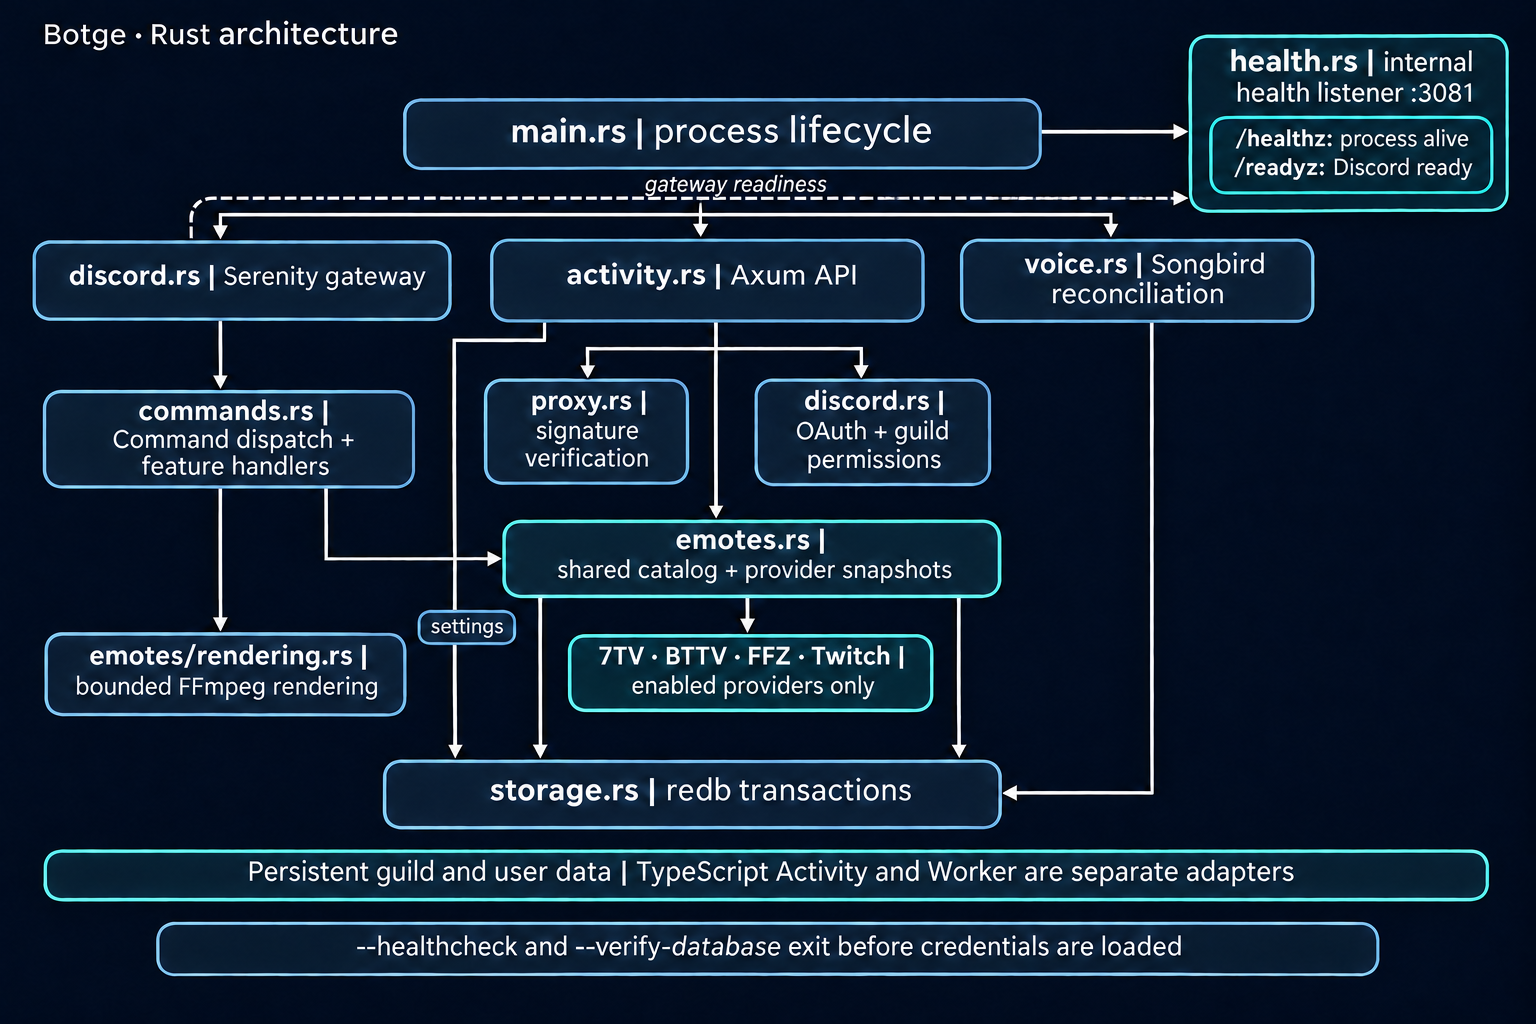
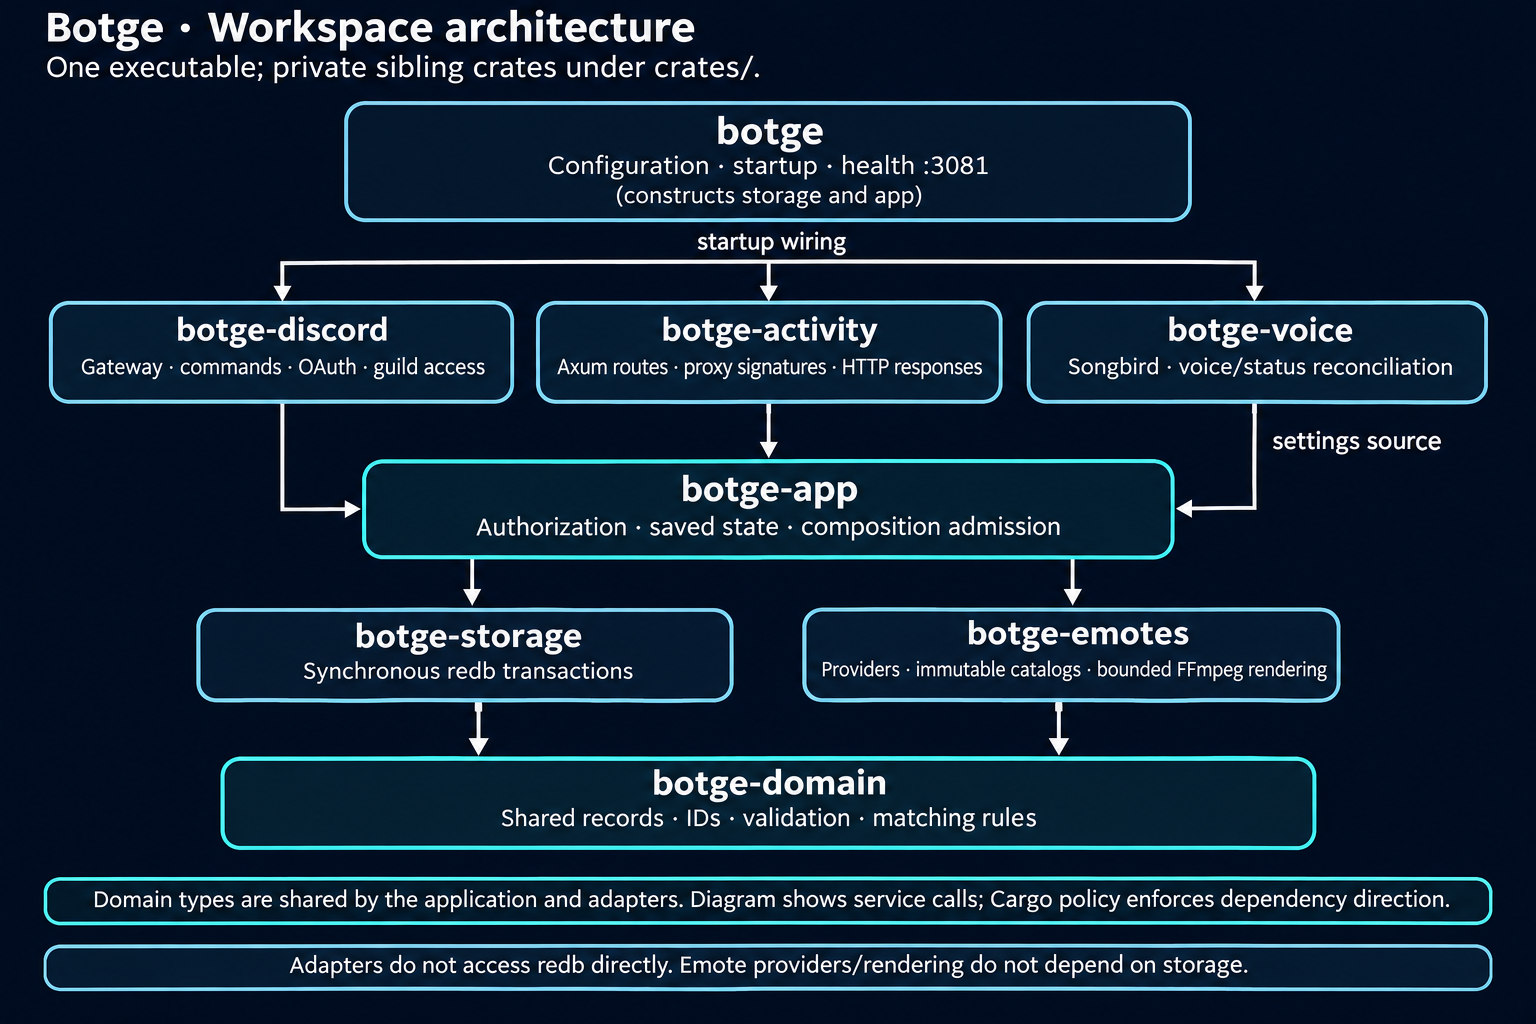
docs(architecture): align diagrams with the Rust workspace

Changed region(s): [[0.0, 0.0, 1.0, 0.9688], [0.0, 0.4062, 0.0312, 0.4375]]

diff --git a/docs/ARCHITECTURE.md b/docs/ARCHITECTURE.md
@@ -1,18 +1,24 @@
 # Rust bot architecture
 
-The production image builds one [Rust binary](../Cargo.toml). Discord commands and the Activity API
-share the same emote catalog. The [Activity and Worker](../activity/README.md) are TypeScript.
+The production image builds one [Rust binary](../crates/botge/Cargo.toml). Discord commands and the
+Activity API share the same emote catalog. The [Activity and Worker](../activity/README.md) are
+TypeScript.
 
 ## Diagram exports
 
-The PNG diagrams describe the current Rust implementation:
+The PNG diagrams describe the current workspace and service flows. The revised architecture,
+request-flow and development-workflow diagrams have editable Mermaid counterparts in
+[`diagrams/`](diagrams/). The workspace guide defines the complete dependency policy:
 
-- [Bot modules](architecture.png): adapters, shared services, rendering, and persistence.
-- [Request and data flow](request-flow.png): Discord commands and authenticated Activity requests.
+- [Workspace architecture](architecture.png) ([Mermaid](diagrams/architecture.mmd)): adapters,
+  application operations, domain records, providers, and persistence.
+- [Request and data flow](request-flow.png) ([Mermaid](diagrams/request-flow.mmd)): Discord
+  compositions and authenticated Activity voice settings.
 - [Deployment topology](deployment.png): Compose services, persistent data, and the optional API
   tunnel.
-- [Development and release workflow](development-workflow.png): local hooks, PR validation, and
-  approved deployment.
+- [Development and release workflow](development-workflow.png)
+  ([Mermaid](diagrams/development-workflow.mmd)): local hooks, language checks, and approved
+  deployment.
 - [Startup and shutdown](startup.png): initialization, optional services, and gateway readiness.
 - [Discord interactions](discord-interactions.png): extensible command, autocomplete, modal, and
   message handling.
@@ -33,60 +39,53 @@ flowchart TD
     Discord --> Health
     Discord --> Ready["Gateway ready"]
     Ready --> Voice["Reconcile saved voice settings with Songbird"]
-    Store --> Voice
-    API --> Store
+    App["Application operations"] --> Store
+    Voice --> App
+    API --> App
     Discord --> Commands["Handle Discord commands"]
-    Commands --> Catalog["Resolve emotes"]
-    Commands --> Renderer["Render images with FFmpeg"]
-    API --> Catalog
-    Catalog --> Store
+    Commands --> App
+    App --> Catalog["Resolve emotes"]
+    App --> Renderer["Render images with FFmpeg"]
     Catalog --> Providers["Provider feeds and 7TV events"]
     Renderer --> Cache["Provider image cache"]
 ```
 
-The root Cargo manifest builds one executable from [`src/`](../src/). The startup module wires the
-dependencies together. The Activity routes validate input and translate failures into HTTP
-responses. The Discord adapter exchanges OAuth codes and checks permissions. Storage owns redb
-transactions, and the voice worker applies settings to Discord.
+The root Cargo manifest is a virtual workspace. The executable lives in
+[`crates/botge/`](../crates/botge/), alongside the private libraries in [`crates/`](../crates/). The
+startup module wires the dependencies together. The Activity routes validate input and translate
+failures into HTTP responses. The Discord adapter exchanges OAuth codes and checks permissions.
+Storage owns redb transactions, and the voice worker applies settings to Discord.
 
 The larger services separate their internal responsibilities into child modules:
 
-- [`commands.rs`](../src/commands.rs) dispatches to [`commands/`](../src/commands/): composition,
-  message prefixes, autocomplete, shortcuts, registration, and cleanup.
-- [`activity.rs`](../src/activity.rs) shares authentication and state across the voice, catalog, and
-  personal border routes in [`activity/`](../src/activity/).
-- [`providers.rs`](../src/emotes/providers.rs) keeps networking and snapshots separate from
-  [`normalization.rs`](../src/emotes/providers/normalization.rs) and
-  [`events.rs`](../src/emotes/providers/events.rs).
-- [`rendering.rs`](../src/emotes/rendering.rs) coordinates downloads and encoding; its
-  [`child modules`](../src/emotes/rendering/) own layout planning, media probing, and WebP timing.
+- [`commands.rs`](../crates/botge-discord/src/commands.rs) dispatches to
+  [`commands/`](../crates/botge-discord/src/commands/): composition, message prefixes, autocomplete,
+  shortcuts, registration, and cleanup.
+- [`activity.rs`](../crates/botge-activity/src/activity.rs) shares authentication and state across
+  the voice, catalog, and personal border routes in
+  [`activity/`](../crates/botge-activity/src/activity/).
+- [`providers.rs`](../crates/botge-emotes/src/emotes/providers.rs) keeps networking and snapshots
+  separate from [`normalization.rs`](../crates/botge-emotes/src/emotes/providers/normalization.rs)
+  and [`events.rs`](../crates/botge-emotes/src/emotes/providers/events.rs).
+- [`rendering.rs`](../crates/botge-emotes/src/emotes/rendering.rs) coordinates downloads and
+  encoding; its [`child modules`](../crates/botge-emotes/src/emotes/rendering/) own layout planning,
+  media probing, and WebP timing.
 
 Feature tests live in each child module's `tests.rs`. Parent test modules retain shared fixtures and
 scenarios that exercise dispatch, authentication, networking, or the complete render pipeline.
 
-### Crate separation assessment
+### Workspace boundaries
 
-The current boundary review retains one executable crate. The emote service imports `Store`, while
-storage imports `Emote` and `GuildEmotes`; extracting either module directly would create a crate
-dependency cycle. A shared domain crate would need to own those records, provider identity and
-validation first. Existing private test fixtures also cross these module boundaries.
+The [workspace guide](../crates/README.md) defines the private crate responsibilities and allowed
+production dependencies. Domain records and pure rules sit below storage and provider services.
+Application operations authorize and coordinate those services; Discord and Activity translate
+transport requests without owning database access. Authorization calls the application's injected
+`GuildAccess` capability, implemented by `botge-discord`. Voice consumes an application
+settings-source capability. The executable wires concrete services together.
 
-- **Emote domain and catalog:** shared types could break the storage/service cycle and isolate pure
-  tests. Separate records, validation and catalog mapping from provider/storage orchestration first.
-- **Storage:** independent persistence tests could avoid Discord/audio dependencies. Extraction
-  needs the domain types and must retain redb transaction and blocking execution contracts.
-- **Rendering:** isolate FFmpeg orchestration from adapters after separating domain records, CDN
-  policy and bounded downloads. Preserve admission limits.
-- **WebP parsing and timing:** a small, mostly independent pure-Rust surface. Move shared timing
-  policy with it; establish independent use or build savings before adding a crate.
-
-Microsoft's smaller-crates guidance applies to these candidates; one binary alone does not make it
-inapplicable. Extraction is deferred until an independent consumer or measured build bottleneck
-justifies the boundary changes. Compare cold dependency builds, warm application builds, and
-rebuilds after adapter-only and domain-only edits using Cargo timings. A smaller crate can reduce
-recompilation of unchanged code; it does not remove Serenity, Songbird, or native dependencies from
-a full bot build. Any split must also update Docker's dependency layer, workspace lint inheritance,
-coverage, Miri, feature checks and unused-dependency checks together.
+The dependency-policy integration test guards these edges and keeps fixture features out of
+production declarations. Cargo rejects cycles. Shared metadata and lint policy live in the root
+manifest; validation, coverage and build inputs include every workspace crate.
 
 The internal health listener is independent of the Activity API. It exposes process liveness at
 `/healthz` and gateway readiness at `/readyz`. Ready/Resumed enables readiness; reconnect stages
@@ -100,10 +99,11 @@ reads an offline redb backup without loading Discord credentials. See
 sequenceDiagram
     participant Browser as Activity
     participant Proxy as Discord proxy
-    participant API as Axum
-    participant Discord
-    participant DB as redb
-    participant Voice as Voice worker
+    participant API as botge-activity
+    participant App as botge-app
+    participant Discord as botge-discord / Discord
+    participant DB as botge-storage
+    participant Voice as botge-voice
     opt No usable access token
         Browser->>Proxy: Send OAuth code to /auth
         Proxy->>API: Forward signed exchange request
@@ -115,14 +115,22 @@ sequenceDiagram
     end
     Browser->>Proxy: Send voice settings and bearer token
     Proxy->>API: Forward signed request through the API tunnel
-    API->>API: Verify Discord proxy signature
-    API->>Discord: Identify token holder and check current guild permissions
+    API->>API: Verify proxy signature and decode request
+    API->>App: Save voice settings
+    App->>Discord: Identify token holder and check current guild/channel permissions
     alt Authorized guild administrator
-        API->>DB: Commit guild voice settings
-        API-->>Voice: Notify after a successful save
-        API-->>Proxy: Return saved settings
-        Voice->>Discord: Join, move, or disconnect
+        App->>DB: Commit guild voice settings on blocking worker
+        DB-->>App: Committed settings
+        App-->>Voice: Notify after successful commit
+        App-->>API: Return saved settings
+        API-->>Proxy: Return HTTP response
+        Voice->>App: Load saved settings through settings source
+        App->>DB: Read saved voice settings
+        DB-->>App: Settings snapshot
+        App-->>Voice: Saved settings
+        Voice->>Discord: Reconcile gateway membership and optional status
     else Authorization failed
+        App-->>API: Sanitized access error (no write)
         API-->>Proxy: Reject the request
     end
     Proxy-->>Browser: Return the response
@@ -172,17 +180,18 @@ Debian.
 
 ```sh
 cargo fmt --all --check
-cargo clippy --locked --all-targets -- -D warnings
-cargo doc --locked --no-deps --document-private-items
+cargo clippy --workspace --locked --all-targets -- -D warnings
+cargo doc --workspace --locked --no-deps --document-private-items
 sh scripts/check-rust-coverage.sh
 npm run check:static
 npm run test:coverage
 npm run check:markup -w activity
 ```
 
-Rust and TypeScript enforce 90% coverage per runtime source file. Rustdoc and Clippy validate
-private contracts as well as public ones. Run Activity builds and tests sequentially because Worker
-tests mock the generated HTML module. See the [test guide](../tests/README.md).
+Rust enforces 95% coverage per measured source file; TypeScript retains its 90% runtime-file gate.
+Rustdoc and Clippy validate private contracts as well as public ones. Run Activity builds and tests
+sequentially because Worker tests mock the generated HTML module. See the
+[test guide](../tests/README.md).
 
 For a live test, export `DISCORD_TOKEN` and `APP_ID` for a separate Discord test application. Export
 `DISCORD_ACTIVITY_CLIENT_SECRET` and `DISCORD_ACTIVITY_PUBLIC_KEY` to enable the local API on
